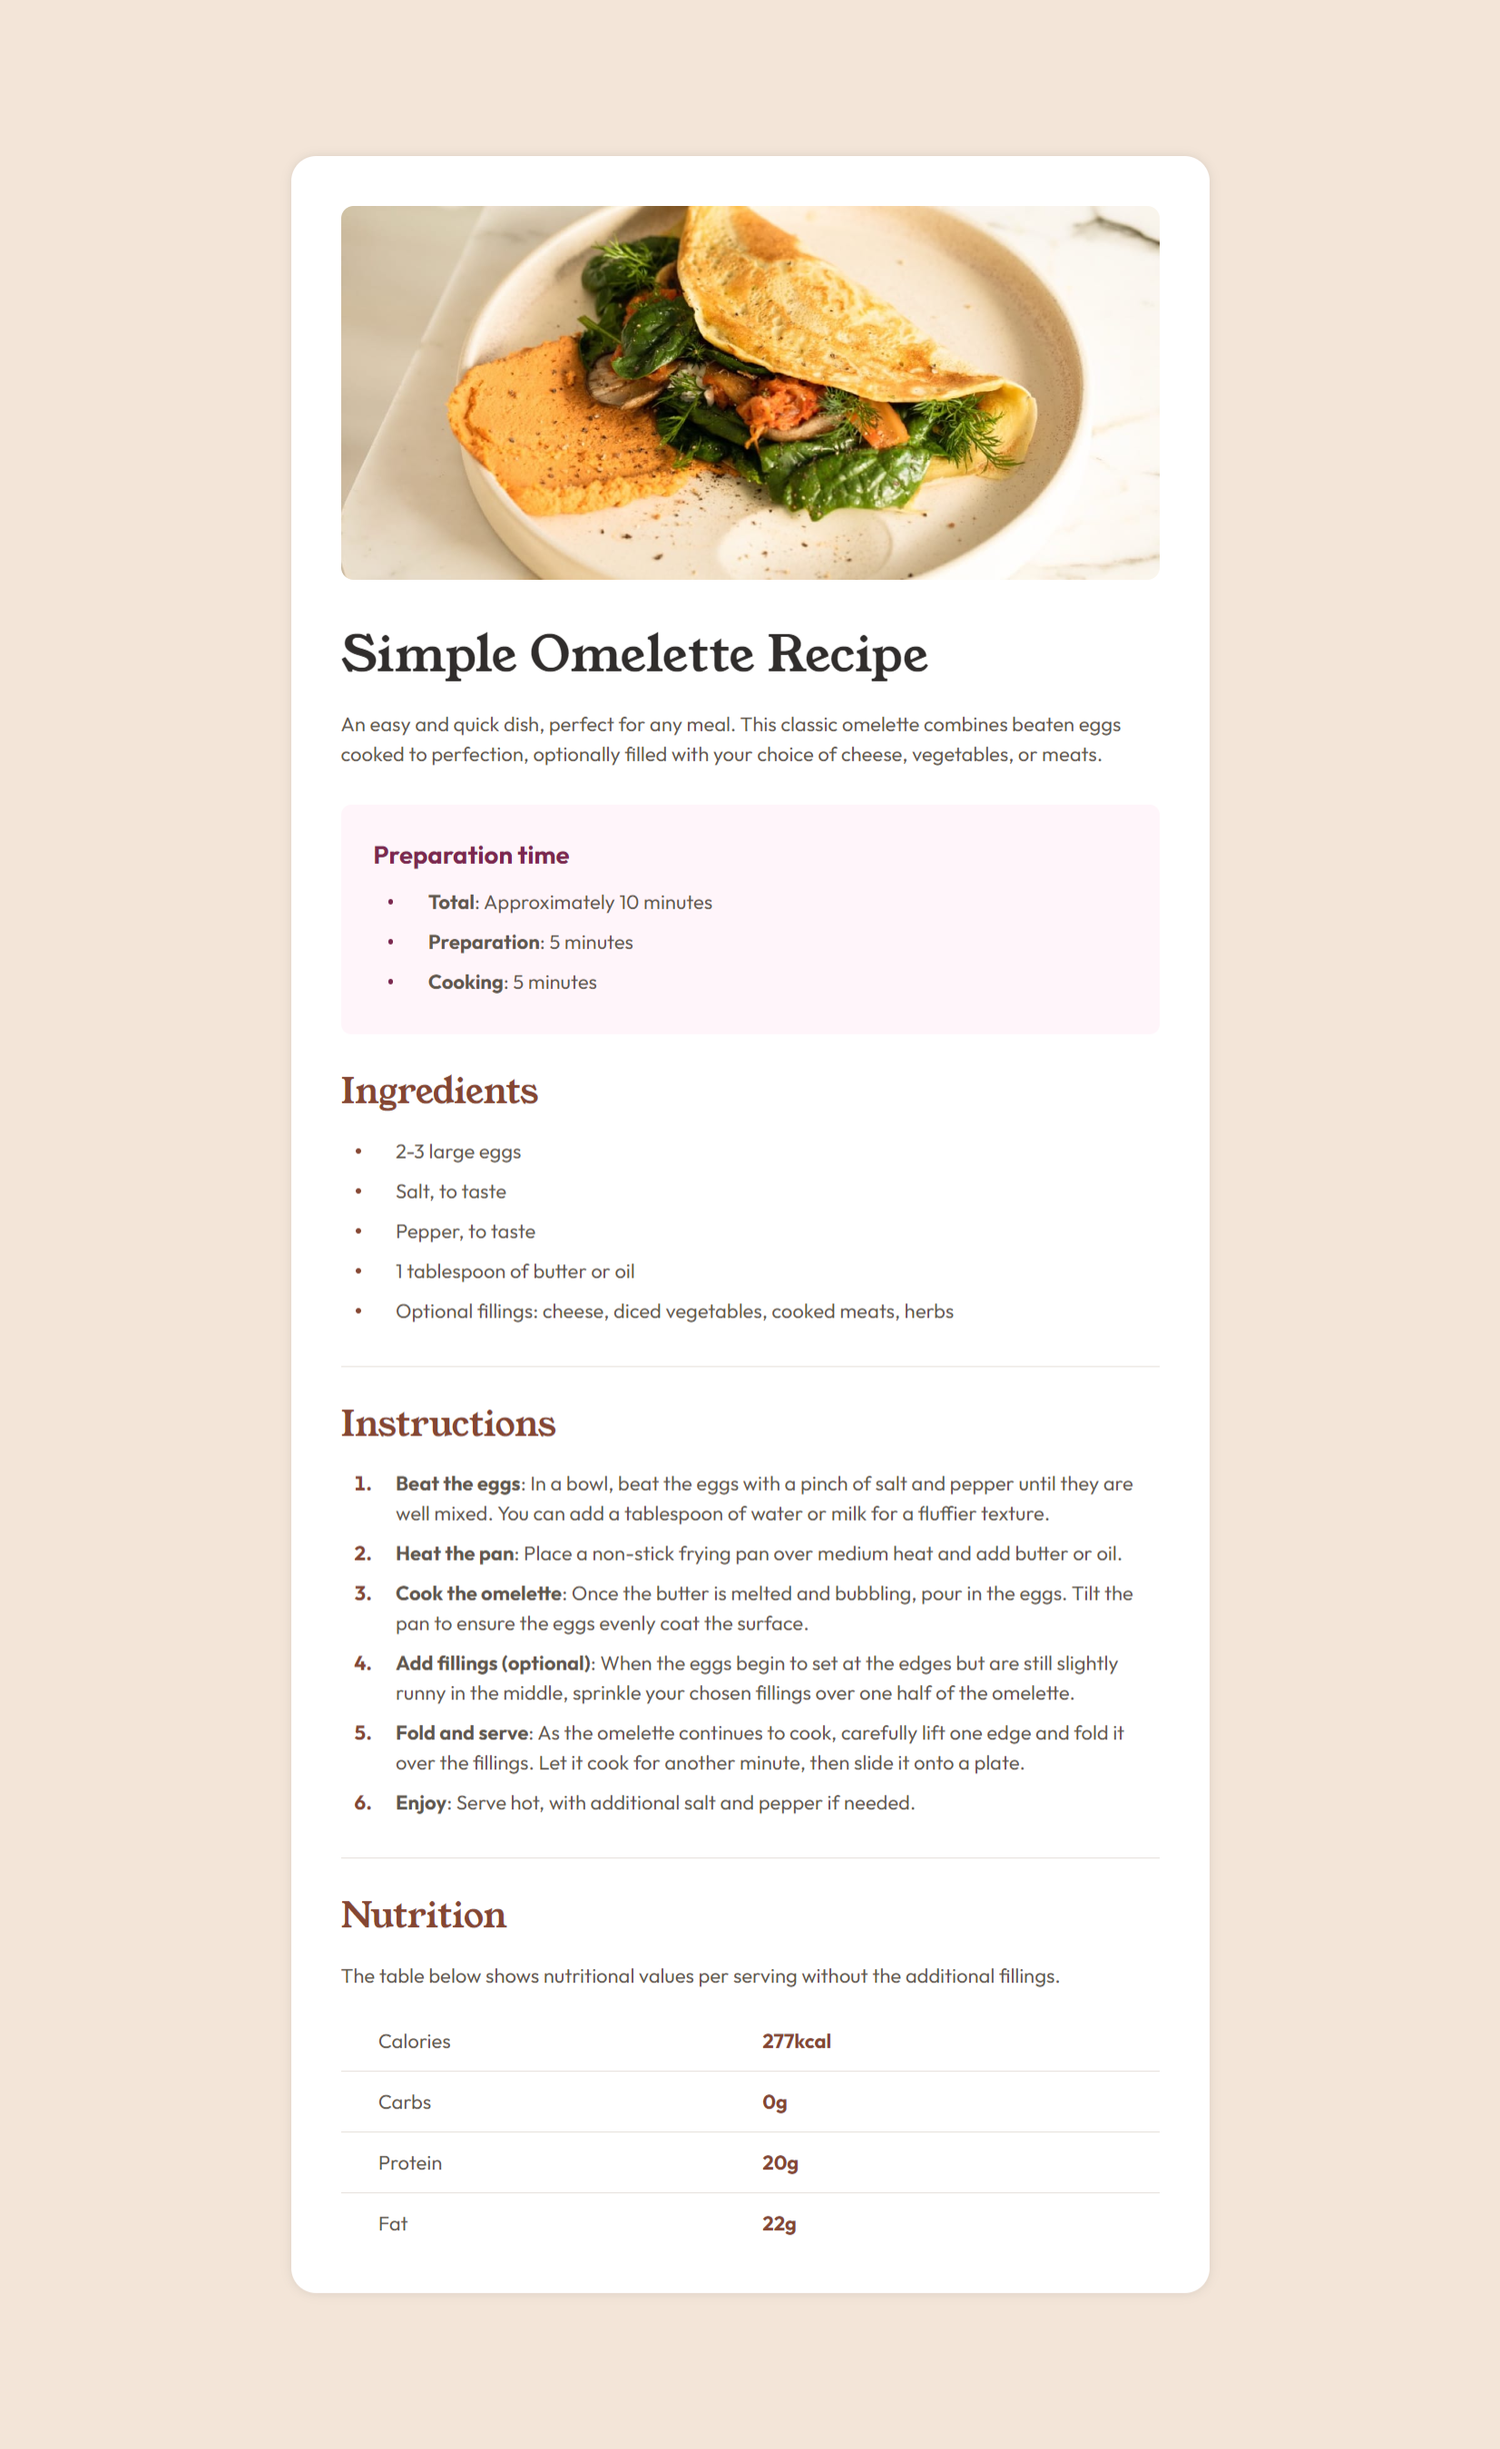
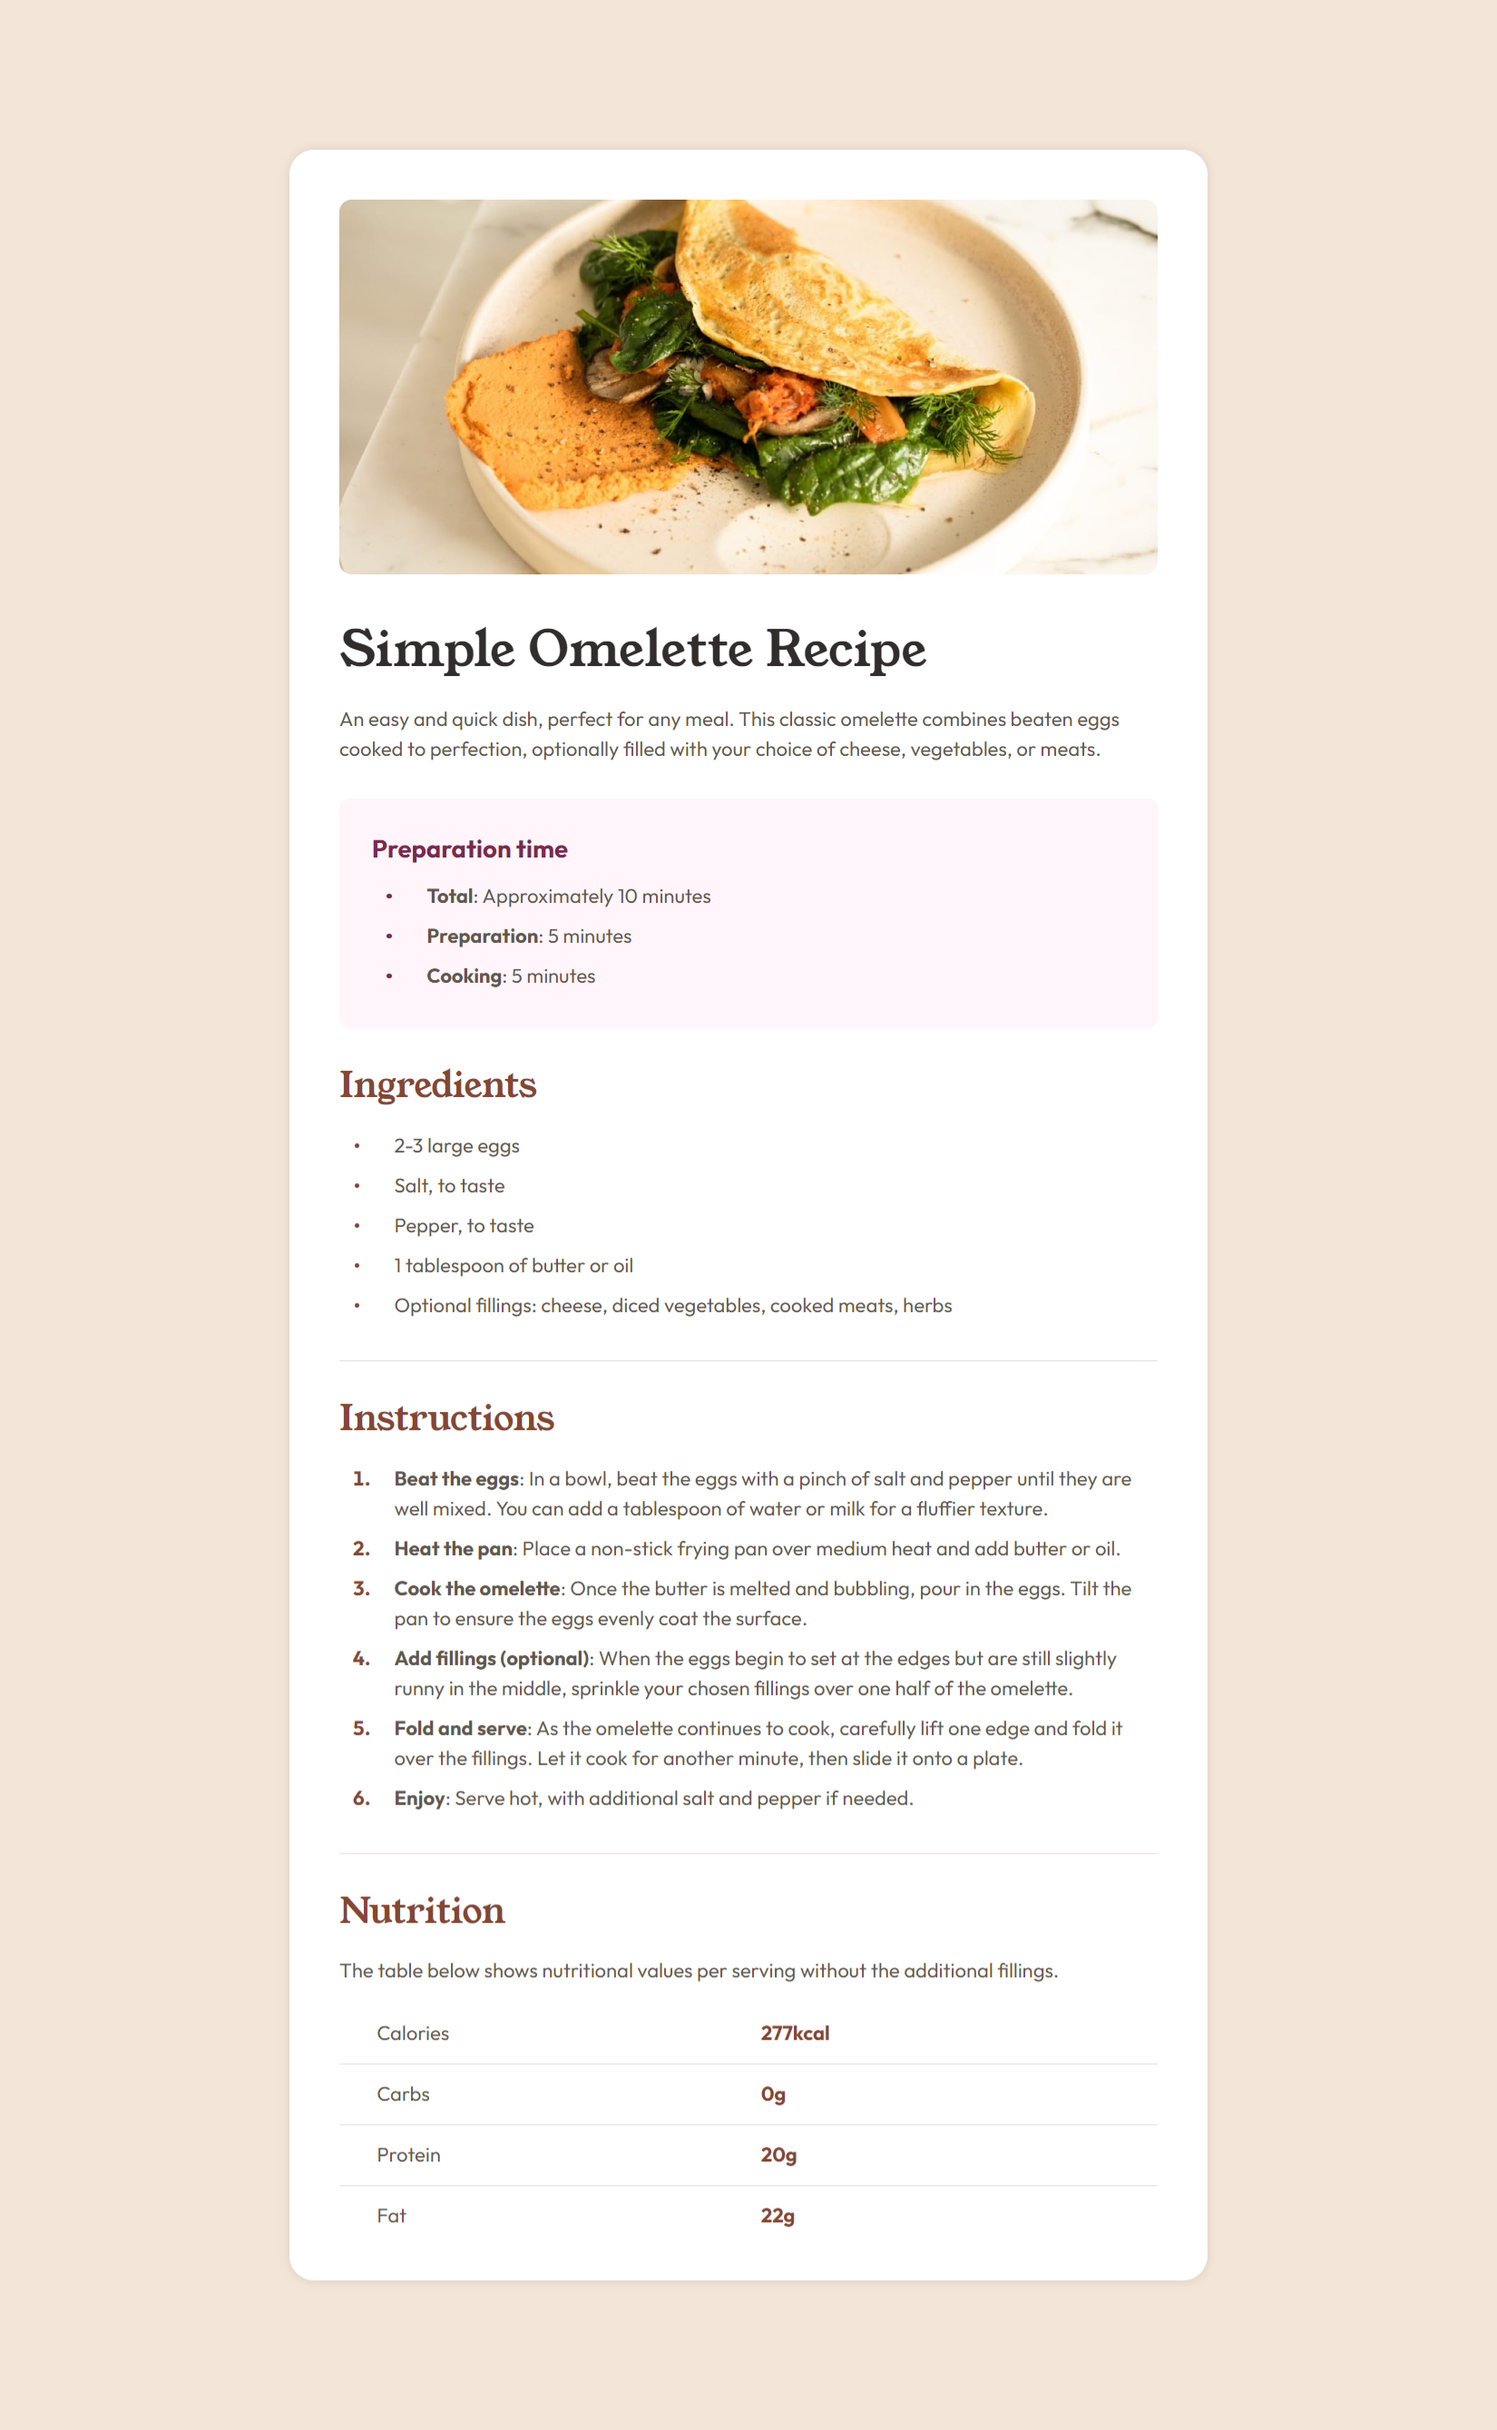
Update styles and screenshot

diff --git a/assets/css/style.css b/assets/css/style.css
@@ -1,224 +1,226 @@
 @font-face {
-    font-family: "Young Serif";
-    src: url(../fonts/young-serif/YoungSerif-Regular.ttf) format("truetype");
+  font-family: "Young Serif";
+  src: url(../fonts/young-serif/YoungSerif-Regular.ttf) format("truetype");
 }
 
 @font-face {
-    font-family: "Outfit Variable";
-    src: url(../fonts/outfit/Outfit-VariableFont_wght.ttf) format("truetype");
+  font-family: "Outfit Variable";
+  src: url(../fonts/outfit/Outfit-VariableFont_wght.ttf) format("truetype");
 }
 
 :root {
-    --white: hsl(0, 0%, 100%);
-    --stone-100: hsl(30, 54%, 90%);
-    --stone-150: hsl(30, 18%, 87%);
-    --stone-600: hsl(30, 10%, 34%);
-    --stone-900: hsl(24, 5%, 18%);
-    --brown-800: hsl(14, 45%, 36%);
-    --rose-800: hsl(332, 51%, 32%);
-    --rose-50: hsl(330, 100%, 98%);
+  --white: hsl(0, 0%, 100%);
+  --stone-100: hsl(30, 54%, 90%);
+  --stone-150: hsl(30, 18%, 87%);
+  --stone-600: hsl(30, 10%, 34%);
+  --stone-900: hsl(24, 5%, 18%);
+  --brown-800: hsl(14, 45%, 36%);
+  --rose-800: hsl(332, 51%, 32%);
+  --rose-50: hsl(330, 100%, 98%);
 }
 
 body {
-    background-color: #F3E5D8;
-    color: var(--stone-600);
-    font-family: "Outfit Variable", sans-serif;
-    font-optical-sizing: auto;
-    font-weight: 400;
-    font-style: normal;
-    font-size: 1rem;
-    min-height: 100dvb;
+  background-color: #f3e5d8;
+  color: var(--stone-600);
+  font-family: "Outfit Variable", sans-serif;
+  font-optical-sizing: auto;
+  font-weight: 400;
+  font-style: normal;
+  font-size: 1rem;
+  min-height: 100dvb;
 }
 
 a {
-    color: #fff;
-    text-decoration: none;
+  color: #fff;
+  text-decoration: none;
 }
 
 .container {
-    width: min(100%, 46rem);
-    margin-inline: auto;
-    background-color: #fff;
+  width: min(100%, 46rem);
+  margin-inline: auto;
+  background-color: #fff;
 }
 
 .hero__img {
-    height: auto;
+  height: auto;
 }
 
-.top__title+* {
-    margin-block-start: 1.5rem;
+.top__title + * {
+  margin-block-start: 1.5rem;
 }
 
-.content__title+* {
-    margin-block-start: 1.375rem;
+.content__title + * {
+  margin-block-start: 1.375rem;
 }
 
 .top__title {
-    font-size: 2.125rem;
-    line-height: 1;
-    font-family: "Young Serif", serif;
-    font-weight: 400;
-    color: var(--stone-900);
-    margin-block-start: 2.5rem;
+  font-size: 2.125rem;
+  line-height: 1;
+  font-family: "Young Serif", serif;
+  font-weight: 400;
+  color: var(--stone-900);
+  margin-block-start: 2.5rem;
 }
 
 .top-details {
-    background-color: var(--rose-50);
-    margin-block-start: 1.75rem;
-    padding-block: 1.875rem;
-    padding-inline: 1.625rem;
-    border-radius: 0.5rem;
+  background-color: var(--rose-50);
+  margin-block-start: 1.75rem;
+  padding-block: 1.875rem;
+  padding-inline: 1.625rem;
+  border-radius: 0.5rem;
 }
 
 .top-details__title {
-    color: var(--rose-800);
-    font-size: 1.25rem;
-    font-weight: 700;
-    line-height: 1;
+  color: var(--rose-800);
+  font-size: 1.25rem;
+  font-weight: 700;
+  line-height: 1;
 }
 
 .top-details ul {
-    margin-block-start: 1rem;
+  margin-block-start: 1rem;
 }
 
 .content:not(:last-of-type) {
-    padding-block-end: 2rem;
-    border-bottom: 1px solid var(--stone-150);
+  padding-block-end: 2rem;
+  border-bottom: 1px solid var(--stone-150);
 }
 
 .content:not(:first-of-type) {
-    padding-block-start: 2rem;
-
+  padding-block-start: 2rem;
 }
 
 .content__title {
-    font-size: 1.75rem;
-    line-height: 1;
-    font-family: "Young Serif", serif;
-    font-weight: 400;
-    color: var(--brown-800);
+  font-size: 1.75rem;
+  line-height: 1;
+  font-family: "Young Serif", serif;
+  font-weight: 400;
+  color: var(--brown-800);
 }
 
 .list {
-    padding-inline-start: 1.75rem;
+  padding-inline-start: 1.75rem;
 }
 
 .list__item {
-    padding-inline-start: 1rem;
-    position: relative;
+  padding-inline-start: 1rem;
+  position: relative;
 }
 
 .list__item:not(:first-of-type) {
-    margin-block-start: 0.5rem;
+  margin-block-start: 0.5rem;
 }
 
 .list-ul {
-    list-style-type: none;
+  list-style-type: none;
 }
 
 .list-ul .list__item::before {
-    content: "";
-    position: absolute;
-    width: 4px;
-    height: 4px;
-    background-color: currentColor;
-    border-radius: calc(1px/0);
-    inset-inline-start: -1rem;
-    inset-block-start: calc(50% - 2px);
+  content: "";
+  position: absolute;
+  width: 4px;
+  height: 4px;
+  background-color: currentColor;
+  border-radius: calc(1px / 0);
+  inset-inline-start: -1rem;
+  inset-block-start: calc(50% - 2px);
 }
 
 .top-details .list__item::before {
-    background-color: var(--rose-800);
+  background-color: var(--rose-800);
 }
 
 .content .list__item::before {
-    background-color: var(--brown-800);
+  background-color: var(--brown-800);
 }
 
 .list-ol .list__item::marker {
-    color: var(--brown-800);
-    font-weight: 700;
-    margin-inline-end: 1rem;
+  color: var(--brown-800);
+  font-weight: 700;
+  margin-inline-end: 1rem;
 }
 
 .table {
-    width: 100%;
-    border-collapse: collapse;
-    margin-block-start: 1rem;
+  width: 100%;
+  border-collapse: collapse;
+  margin-block-start: 1.625rem;
 }
 
 .table__row:not(:first-of-type) {
-    border-top: 1px solid var(--stone-150);
+  border-top: 1px solid var(--stone-150);
 }
 
 .table__head {
-    font-weight: 400;
-    text-align: left;
-    padding-inline-start: 1.875rem;
+  font-weight: 400;
+  text-align: left;
+  padding-inline-start: 1.875rem;
 }
-
 .table__head,
 .table__data {
-    width: 50%;
-    padding-block: 0.8125rem;
+  width: 50%;
+  padding-block: 0.75rem;
 }
-
 .table__data {
-    font-weight: 700;
-    color: var(--brown-800);
-    padding-inline-start: 0.625rem;
+  font-weight: 700;
+  color: var(--brown-800);
+  padding-inline-start: 0.625rem;
+}
+.table__row:first-of-type .table__head,
+.table__row:first-of-type .table__data {
+  padding-block-start: 0;
+}
+.table__row:last-of-type .table__head,
+.table__row:last-of-type .table__data {
+  padding-block-end: 0;
 }
 
-@media(width >=768px) {
-    .container {
-        margin-block: 7.8125rem;
-        padding-block: 2.5rem 2rem;
-        padding-inline: 2.5rem;
-        border-radius: 1.25rem;
-        box-shadow: 0 0.025rem 0.5rem rgb(0 0 0 / 0.1);
-    }
+@media (width >=768px) {
+  .container {
+    margin-block: 7.5rem;
+    padding-block: 2.5rem;
+    padding-inline: 2.5rem;
+    border-radius: 1.25rem;
+    box-shadow: 0 0.025rem 0.5rem rgb(0 0 0 / 0.1);
+  }
 
-    .hero {
-        border-radius: 0.625rem;
-        overflow: hidden;
-    }
+  .hero {
+    border-radius: 0.625rem;
+    overflow: hidden;
+  }
 
-    .top-title {
-        font-size: 2.5rem;
-    }
-
+  .top__title {
+    font-size: 2.5rem;
+  }
 }
 
 @media (width < 768px) {
-    .container {
-        padding-block-end: 2rem;
-        padding-inline: 2rem;
-    }
+  .container {
+    padding-block-end: 2rem;
+    padding-inline: 2rem;
+  }
 
-    .hero {
-        margin-inline: calc(50% - 50vw);
-    }
+  .hero {
+    margin-inline: calc(50% - 50vw);
+  }
 
-    .top-details {
-        padding-block: 1.5rem;
-        padding-inline: 1.5rem;
-    }
+  .top-details {
+    padding-block: 1.5rem;
+    padding-inline: 1.5rem;
+  }
 
-    .card {
-        padding-block: 1.5rem;
-        padding-inline: 1.5rem;
-        margin-inline: auto;
-
-    }
-
-    .top-title {
-        font-size: 2.125rem;
-    }
+  .card {
+    padding-block: 1.5rem;
+    padding-inline: 1.5rem;
+    margin-inline: auto;
+  }
+  .top__title {
+    font-size: 2.125rem;
+  }
 }
 
 @media (any-hover: hover) {
-    .card__link:hover {
-        color: #333;
-        background-color: #c5f82a;
-    }
+  .card__link:hover {
+    color: #333;
+    background-color: #c5f82a;
+  }
 }
